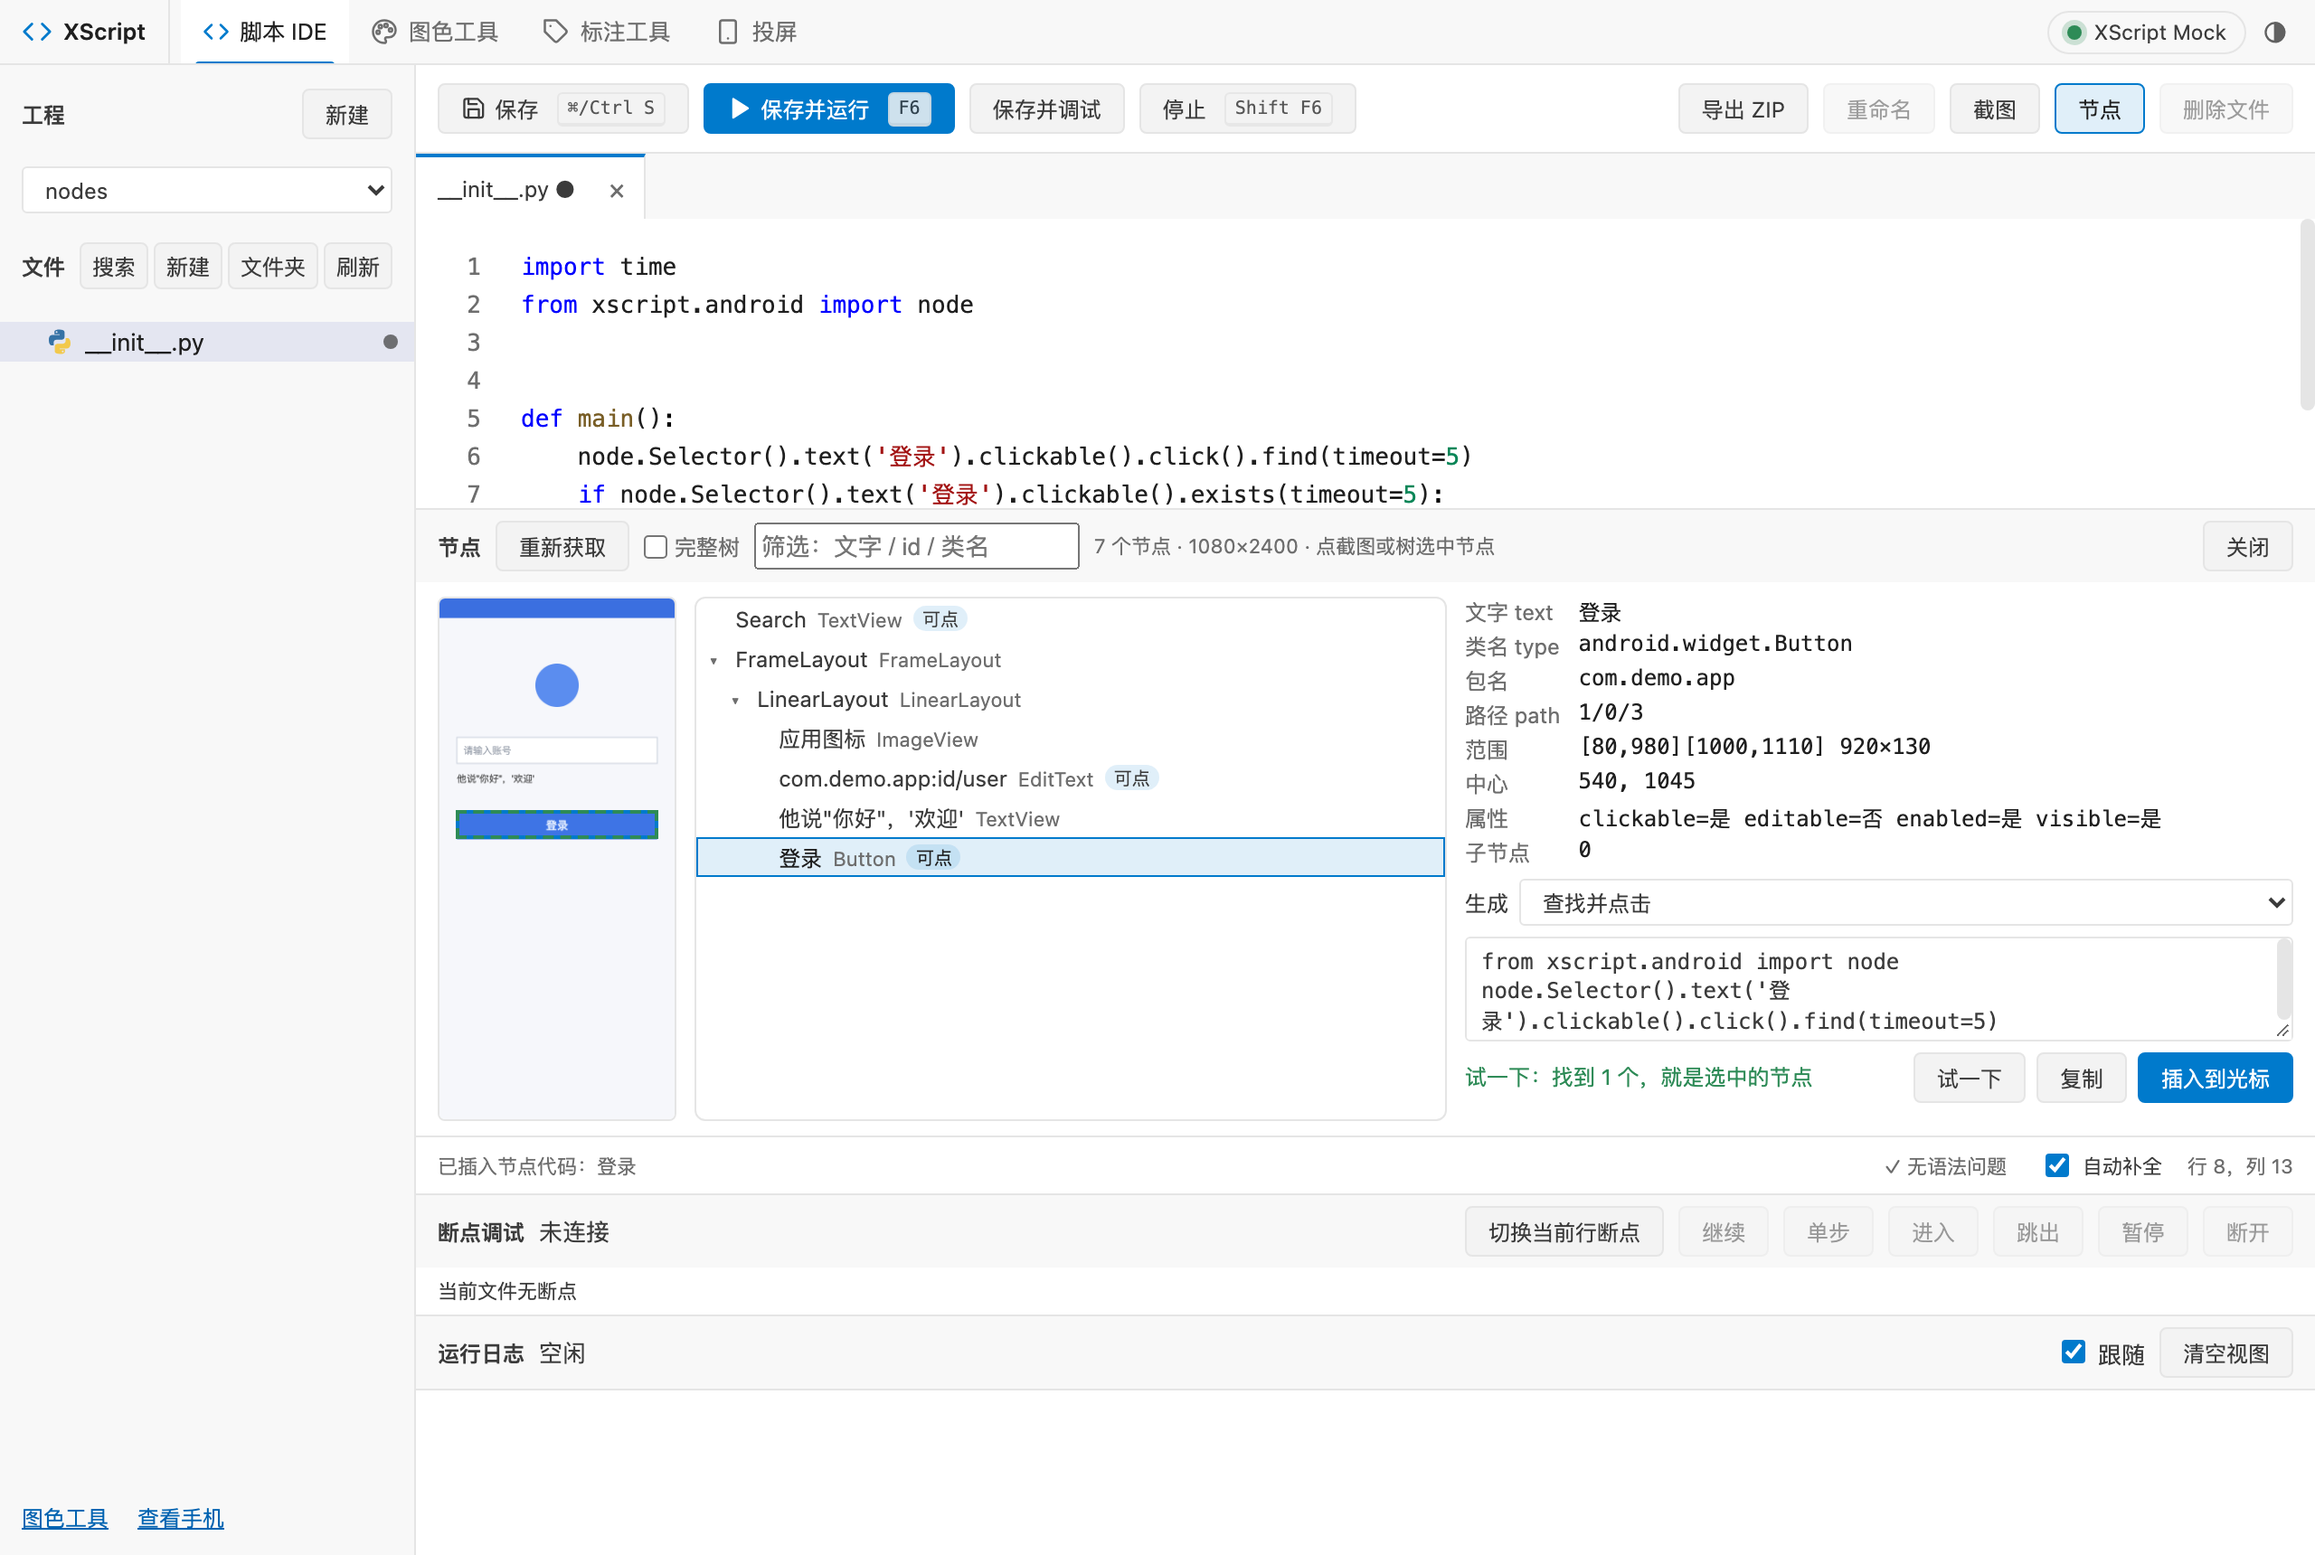
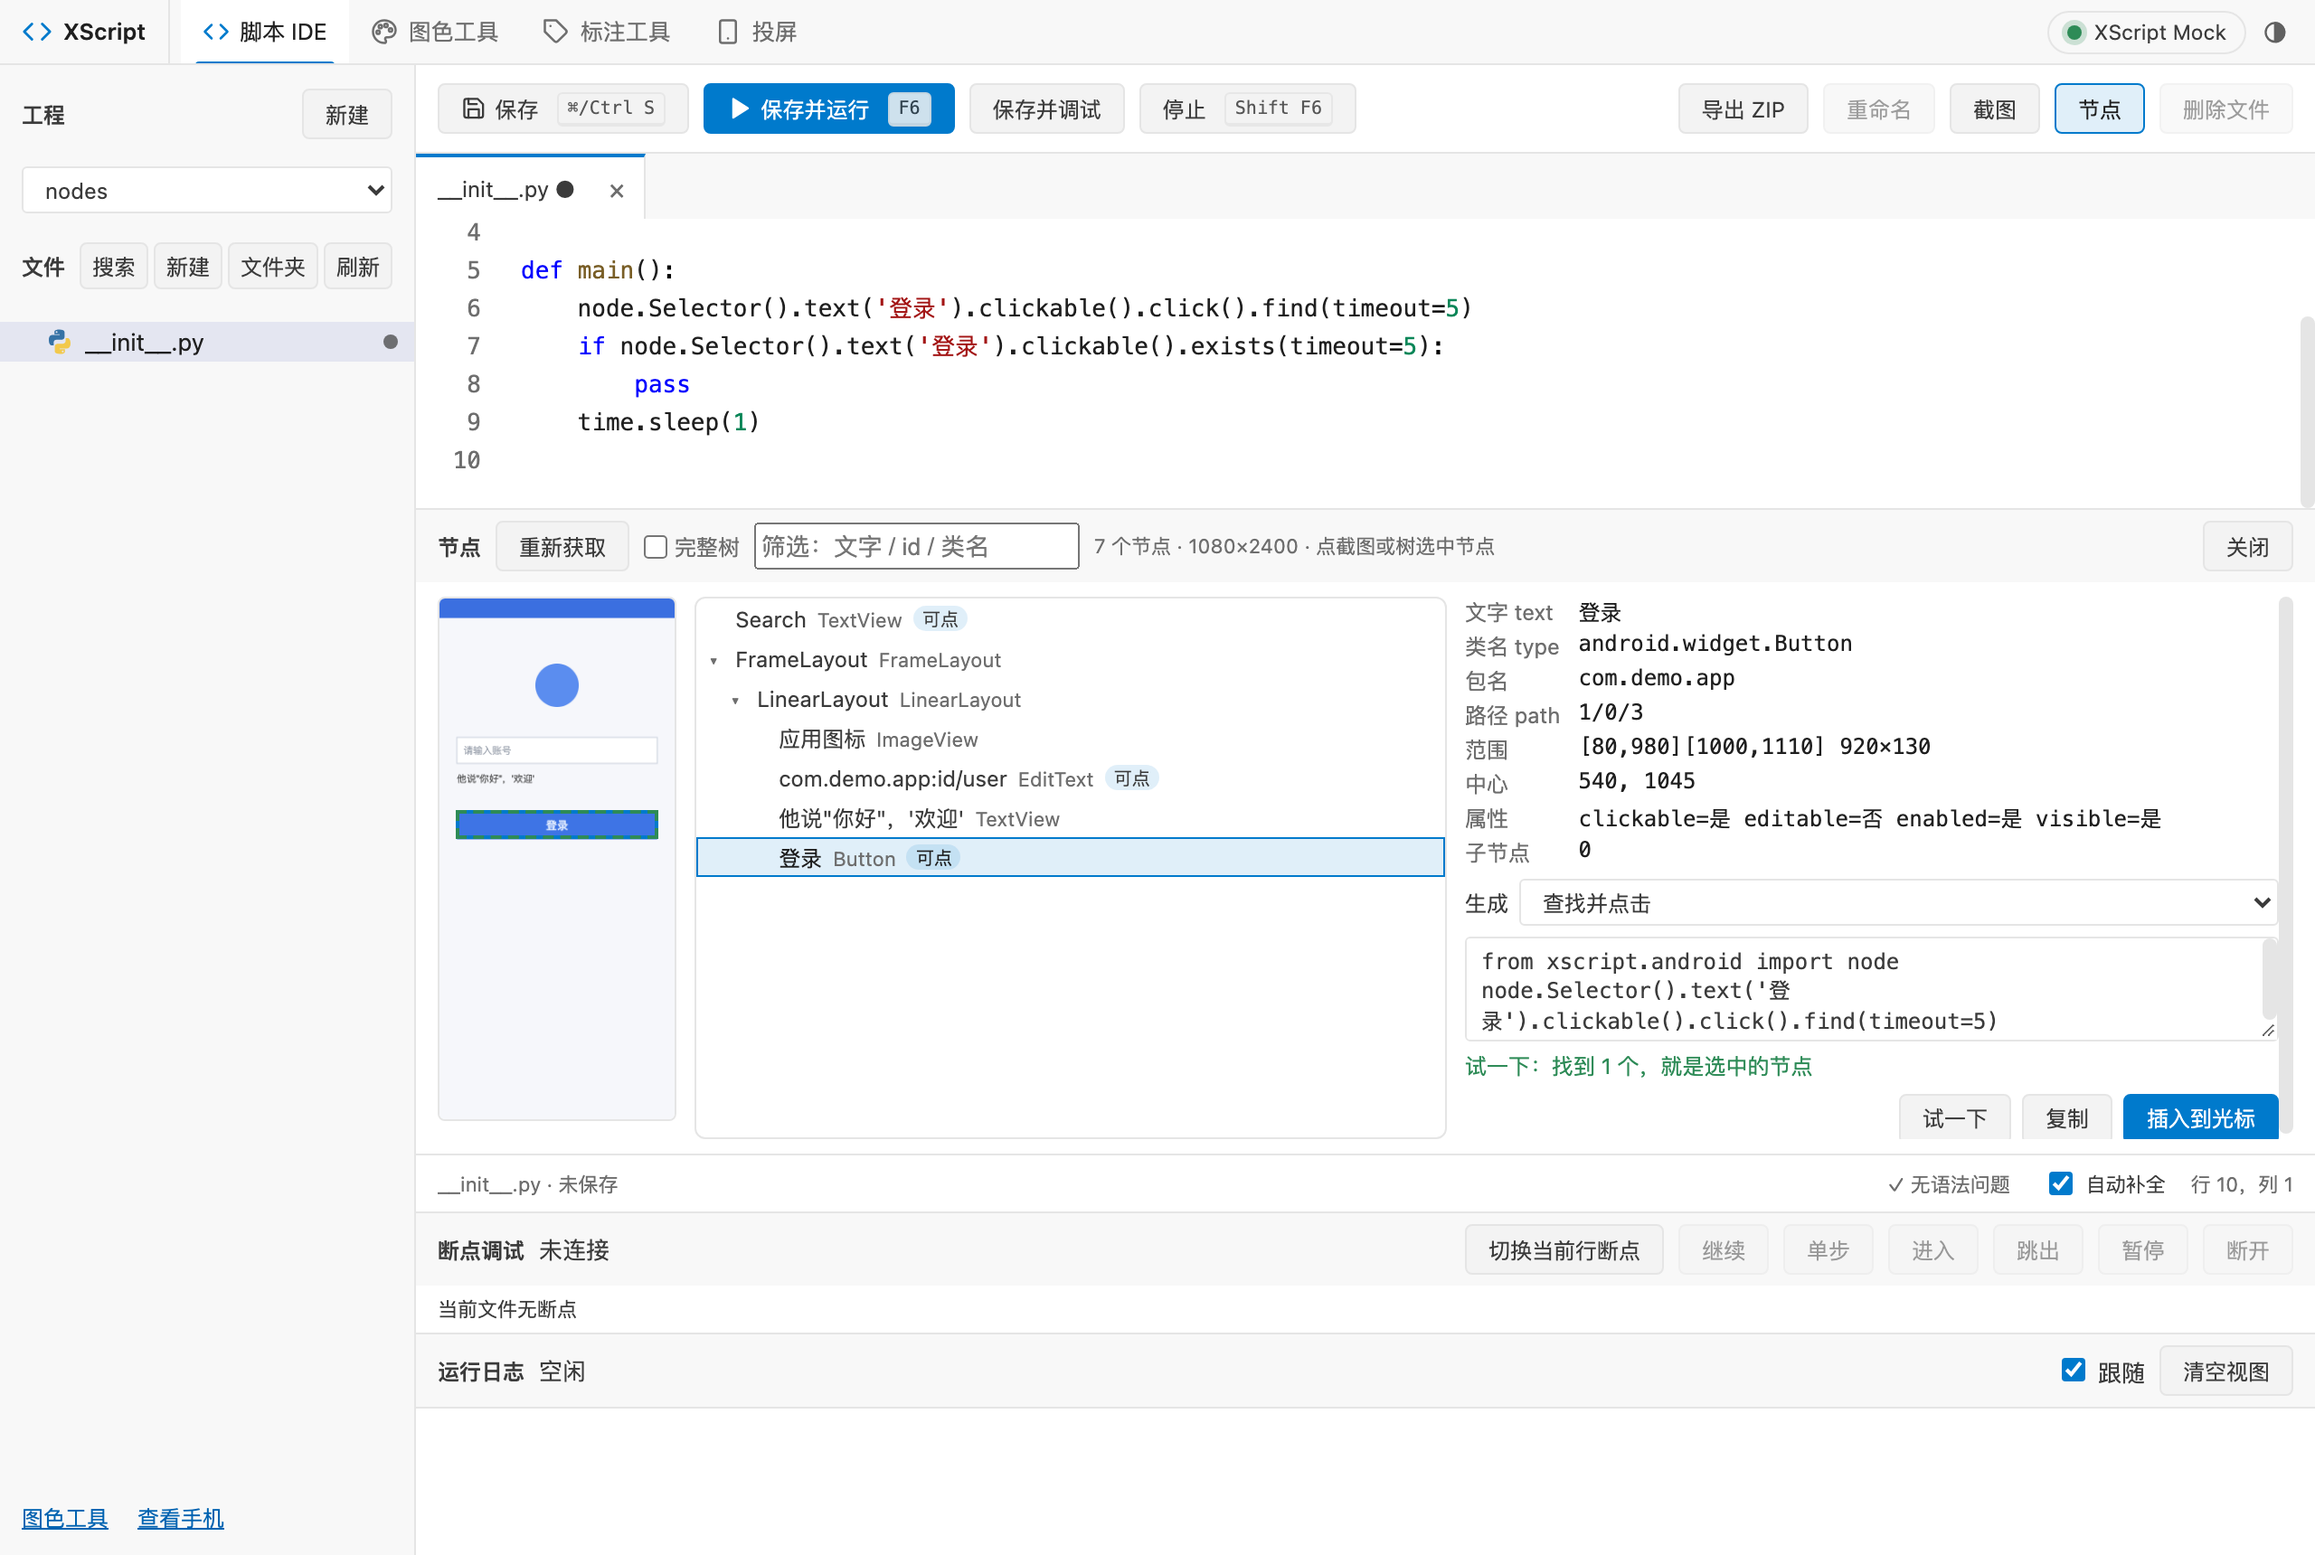
feat(webide): run the just-inserted node code on the phone

diff --git a/android/app/src/main/assets/tools/editor-nodes.js b/android/app/src/main/assets/tools/editor-nodes.js
@@ -171,6 +171,20 @@
     return NODE_IMPORT + "\n_hits = " + sel + ".find_all(timeout=0, limit=20)\n_result = [[h.path, h.left, h.top, h.right, h.bottom] for h in _hits]";
   }
 
+  /** The inserted snippet as a POST /eval body that really runs on the phone (find-and-click clicks, 点击中心坐标 taps)
+   *  and answers in `_result`: what was found, whether the condition held, or that the tap was sent. */
+  function runCode(n, kind = "find", mode = 0, roots = null) {
+    const s = snippet(n, kind, mode, roots);
+    let code = s.code;
+    if (kind === "tap") code += "\n_result = \"已点击坐标\"";
+    else if (kind === "exists") code = code.replace(/\n    pass$/, "\n    _result = \"条件成立：找到了\"\nelse:\n    _result = \"条件不成立：5 秒内没找到\"");
+    else {
+      if (kind === "click") code = code.replace(/^(node\.Selector)/m, "hit = $1");
+      code += "\n_result = \"没找到（5 秒内）\" if hit is None else (\"已点击 \" if " + (kind === "click" ? "True" : "False") + " else \"找到 \") + repr(hit)";
+    }
+    return s.imports.join("\n") + "\n" + code;
+  }
+
   /** What a try found, for the picked node `n`: {text, ok, hits: [{path, rect}]}. `result` is /eval's JSON text. */
   function tryVerdict(result, n) {
     let list = [];
@@ -219,7 +233,7 @@
     return {left: r.l / w * 100 + "%", top: r.t / h * 100 + "%", width: (r.r - r.l) / w * 100 + "%", height: (r.b - r.t) / h * 100 + "%"};
   }
 
-  const EditorNodes = {hitTest, ancestry, rows, count, label, pyStr, xpathStr, selectorChain, nodeXPath, center, KINDS, snippet, fullText, tryCode, tryVerdict, fragile, FRAGILE, stableAlternative, importEdit, attrs, boxStyle, shortType};
+  const EditorNodes = {hitTest, ancestry, rows, count, label, pyStr, xpathStr, selectorChain, nodeXPath, center, KINDS, snippet, fullText, runCode, tryCode, tryVerdict, fragile, FRAGILE, stableAlternative, importEdit, attrs, boxStyle, shortType};
 
   // ---- browser dock ----
   // ctx: {message(text, error), insertCode(code, imports) -> bool, onOpen()}
@@ -245,6 +259,7 @@
       if (alt) $("node-alt-text").textContent = "更稳的选择：" + alt.rel + "「" + label(alt.node) + "」，它的 id、文字或描述在界面上唯一";
       $("node-try").disabled = !n || !tryCode(n, $("node-kind").value, mode(), st.tree && st.tree.roots);
       clearTry();
+      $("node-run").hidden = true;
       const box = $("node-box"), css = n && st.tree && boxStyle(n.rect, st.tree.width, st.tree.height);
       box.hidden = !css || $("node-shot").hidden;
       if (css) Object.assign(box.style, css);
@@ -305,6 +320,25 @@
       finally { if (token === st.tryToken) $("node-try").disabled = false; }
     }
 
+    /** Run the snippet that was just inserted, for real (POST /eval): find-and-click clicks, 点击中心坐标 taps. */
+    async function runIt() {
+      const n = st.selected; if (!n) return;
+      const code = runCode(n, $("node-kind").value, mode(), st.tree && st.tree.roots);
+      clearTry();
+      const token = st.tryToken, out = $("node-try-result");
+      $("node-run").disabled = true; out.textContent = "在手机上运行…";
+      try {
+        const r = await fetch("/eval", {method: "POST", cache: "no-store", headers: {"Content-Type": "application/json", "X-XScript-Client": "tools"}, body: JSON.stringify({code, timeout_ms: 8000})});
+        if (r.status === 401) { location.href = "/pair?next=" + encodeURIComponent(location.pathname + location.search); return; }
+        let data = null; try { data = await r.json(); } catch (e) { /* not JSON */ }
+        if (token !== st.tryToken) return;
+        if (!r.ok || !data || !data.ok) throw new Error("运行失败：" + ((data && (data.error || "").trim().split("\n").pop()) || "HTTP " + r.status));
+        const text = String(data.result || "");
+        out.textContent = "运行结果：" + text; out.classList.add(/^(没找到|条件不成立)/.test(text) ? "error" : "ok");
+      } catch (e) { if (token === st.tryToken) { out.textContent = e.message; out.classList.add("error"); } }
+      finally { if (token === st.tryToken) $("node-run").disabled = false; }
+    }
+
     async function take() {
       const token = ++st.token;
       $("node-take").disabled = true; info("读取节点…");
@@ -353,7 +387,15 @@
     $("node-filter").addEventListener("input", renderTree);
     $("node-kind").addEventListener("change", () => { try { localStorage.setItem("xs-node-kind", $("node-kind").value); } catch (e) { /* storage off */ } renderDetail(); });
     $("node-copy").addEventListener("click", () => { const s = current(); if (s) XS.copy(fullText(s), "已复制代码"); });
-    $("node-insert").addEventListener("click", () => { const s = current(); if (s && ctx.insertCode(s.code, s.imports)) ctx.message("已插入节点代码：" + label(st.selected)); });
+    $("node-insert").addEventListener("click", () => {
+      const s = current(); if (!s || !ctx.insertCode(s.code, s.imports)) return;
+      ctx.message("已插入节点代码：" + label(st.selected));
+      // offer to run what was just inserted; it acts on the phone for the click kinds, so the button says so
+      const acts = ["click", "tap"].includes($("node-kind").value);
+      $("node-run").textContent = acts ? "在手机上运行（会点击）" : "在手机上运行";
+      $("node-run").hidden = false; $("node-run").disabled = false;
+    });
+    $("node-run").addEventListener("click", runIt);
     $("node-tree").addEventListener("click", e => {
       const row = e.target.closest(".node-row"); if (!row) return;
       const n = row._node;

diff --git a/android/app/src/main/assets/tools/editor.html b/android/app/src/main/assets/tools/editor.html
@@ -57,7 +57,7 @@
      <div class="node-code-row"><label for="node-kind">生成</label><select id="node-kind"></select></div>
      <textarea id="node-code" readonly rows="3" aria-label="生成的代码" spellcheck="false"></textarea>
      <p id="node-alt" class="node-alt" hidden><span id="node-alt-text"></span><button id="node-alt-use" type="button" title="选中这个节点，按它生成代码">换成它</button></p>
-     <div class="node-actions"><span id="node-try-result" class="node-try-result" role="status" aria-live="polite"></span><button id="node-try" type="button" disabled title="在手机上按这段代码的条件查找一次（不会点击），截图上框出找到的节点">试一下</button><button id="node-copy" type="button" disabled>复制</button><button id="node-insert" type="button" class="primary" disabled title="插入到编辑器光标处，缺少的 import 加到文件开头（树里按 Enter 也可以）">插入到光标</button></div>
+     <div class="node-actions"><span id="node-try-result" class="node-try-result" role="status" aria-live="polite"></span><button id="node-run" type="button" hidden title="把刚插入的这段代码在手机上真正运行一次，结果显示在左边">在手机上运行</button><button id="node-try" type="button" disabled title="在手机上按这段代码的条件查找一次（不会点击），截图上框出找到的节点">试一下</button><button id="node-copy" type="button" disabled>复制</button><button id="node-insert" type="button" class="primary" disabled title="插入到编辑器光标处，缺少的 import 加到文件开头（树里按 Enter 也可以）">插入到光标</button></div>
     </div>
    </div>
   </section>

diff --git a/android/app/src/main/assets/tools/editor.css b/android/app/src/main/assets/tools/editor.css
@@ -197,9 +197,10 @@
 .node-alt { display:flex; align-items:center; gap:6px; margin:0; font-size:12px; line-height:1.4; color:var(--warn); }
 .node-alt[hidden] { display:none; }
 .node-alt span { flex:1; min-width:0; }
-.node-try-result { flex:1; min-width:0; font-size:12px; line-height:1.4; color:var(--muted); }
+.node-try-result { flex:1 1 100%; min-width:0; overflow-wrap:anywhere; font-size:12px; line-height:1.4; color:var(--muted); }
 .node-try-result.ok { color:var(--ok); }
 .node-try-result.error { color:var(--bad); }
+.node-try-result:empty { display:none; }
 .node-tree { min-height:0; max-height:300px; overflow:auto; border:1px solid var(--divider); border-radius:var(--radius); font-size:12px; background:var(--bg); }
 .node-row { display:flex; align-items:center; gap:6px; height:22px; padding-right:6px; cursor:pointer; white-space:nowrap; }
 .node-row:hover { background:var(--bg-hover); }
@@ -218,7 +219,7 @@
 .node-code-row { display:flex; align-items:center; gap:6px; font-size:12px; }
 .node-code-row select { flex:1; min-width:0; }
 #node-code { width:100%; box-sizing:border-box; min-height:58px; font-family:var(--mono); font-size:12px; resize:vertical; }
-.node-actions { display:flex; gap:6px; justify-content:flex-end; align-items:center; }
+.node-actions { display:flex; flex-wrap:wrap; gap:6px; justify-content:flex-end; align-items:center; }
 @media(max-width:900px) { .node-body { grid-template-columns:auto minmax(0,1fr); } .node-detail { grid-column:1 / -1; max-height:none; } }
 
 /* Phone layout (≤600px): one column, explorer as a drawer, compact toolbar and panels. */

diff --git a/docs/使用手册.md b/docs/使用手册.md
@@ -297,6 +297,10 @@ http://127.0.0.1:9860/tools/
   选中的控件没有唯一的 id、文字或描述、只能靠路径定位时，生成的代码前面多一行注释 `# 没有唯一的 id、文字或描述，只能靠路径定位：界面变了可能找不到`，提醒换一个更稳的控件。如果它的子节点（往下 3 层内）或父节点（往上 3 层内）有唯一的 id、文字或描述，代码下面会提示 **更稳的选择**（先找子节点，比如列表行里的标题；再找父节点，比如图标外面的按钮；不会推荐旁边的其它控件），点 **换成它** 直接选中那个节点。桌面端控件检查生成的代码也一样：多一行 `# 更稳的选择：子节点「…」` 注释。
 
   ![节点工具：完整树里选中一个没有 id 和文字的 LinearLayout，生成的代码带路径提醒，下面提示更稳的选择「应用图标」（模拟设备）](images/ide-nodes-fragile.png)
+
+  **插入到光标** 之后，按钮左边多一个 **在手机上运行**：把刚插入的这段代码在手机上真正运行一次（不用运行整个脚本），左边显示结果，比如「已点击 Node(…)」「找到 Node(…)」「没找到（5 秒内）」「条件成立：找到了」或出错的最后一行。生成方式是「查找并点击」或「点击中心坐标」时按钮写着 **在手机上运行（会点击）**，确实会点手机。换选节点或换生成方式后按钮隐藏。
+
+  ![节点工具：插入「查找并点击」代码后点「在手机上运行（会点击）」，左边显示运行结果（模拟设备）](images/ide-nodes-run.png)
 - **自动补全**：输入时自动弹出（至少 2 个字符，或在 `.` 之后），也可以随时按 **Ctrl/Cmd+空格**（或 Alt+/）；↑/↓ 选择，Enter 或 Tab 接受，Esc 关闭，也可以直接点击。内容来自设备运行时自带的 `xscript.*`、`ascript.*` 接口索引（离线可用，带签名和说明），覆盖：`import` 和 `from ... import` 的模块路径和成员、`模块.` 和 `类.` 之后的成员、`x = SomeClass(...)` 之后的 `x.`、当前文件里的 import 和 def/class/变量、内置函数、关键字、文件里出现过的单词。在字符串和注释里不弹出；状态栏的 **自动补全** 复选框可以关掉自动弹出（偏好保存在浏览器里），快捷键仍可用。补全不做类型推断，只认上面这些写法。
 - **参数提示**：输入函数调用的 `(` 之后，编辑器上方显示该函数的签名，当前参数加下划线（按位置、`名字=` 或 `*args` 判断，嵌套调用和多行调用都认），下方是文档第一段。光标离开括号、按 Esc 或失去焦点时关闭；**Ctrl/Cmd+Shift+空格** 随时手动打开。状态栏的 **自动补全** 关掉后不自动出现，快捷键仍可用。
 
